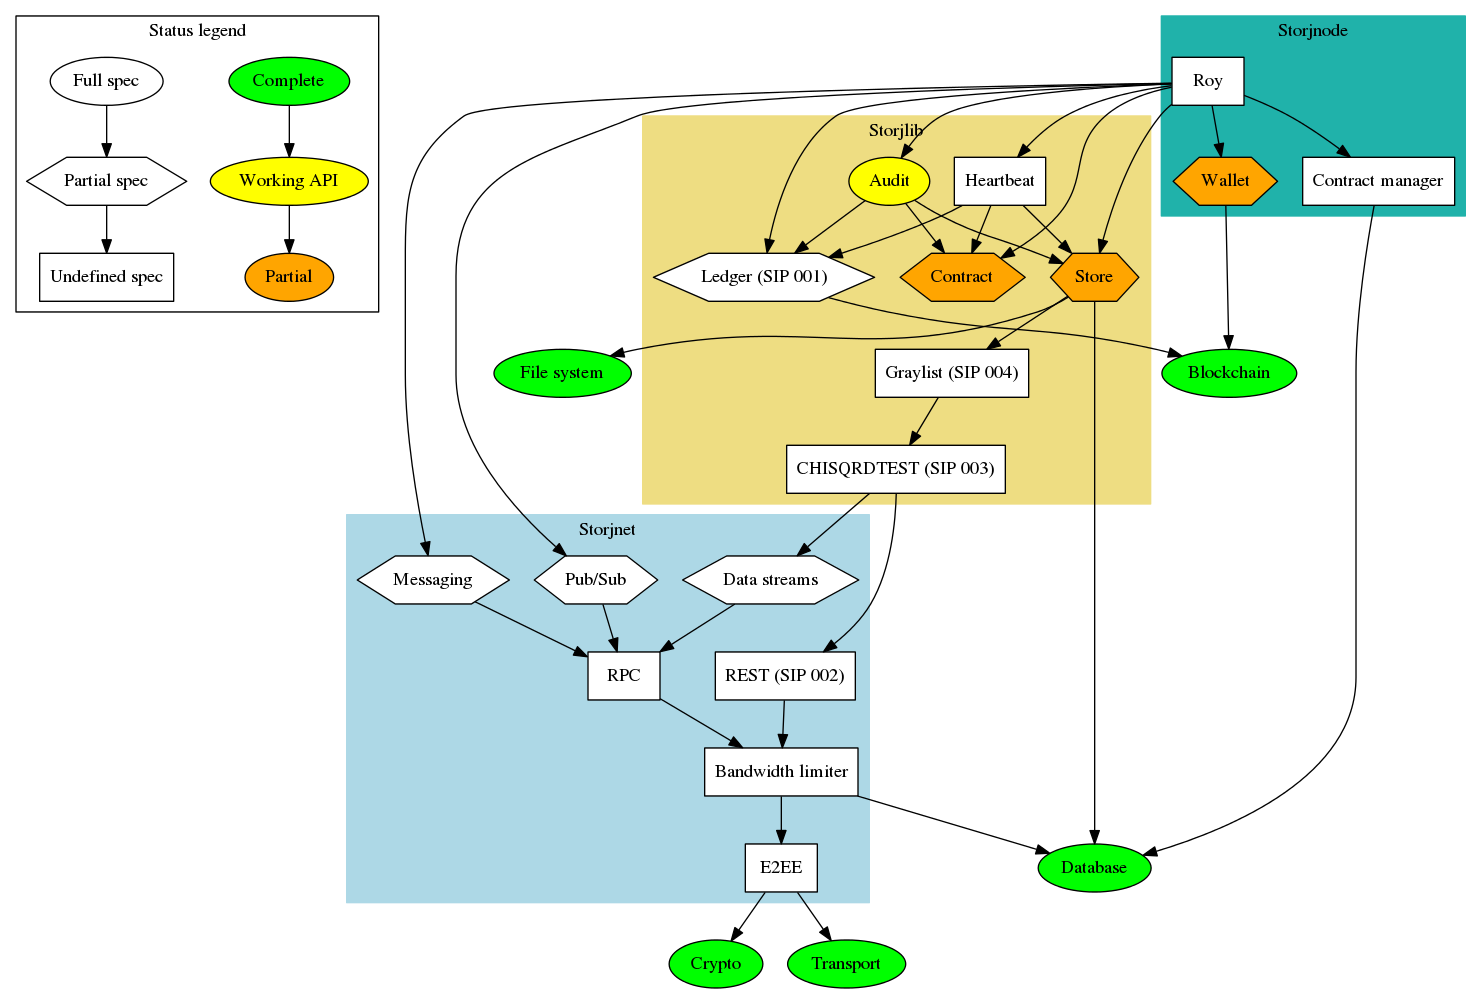
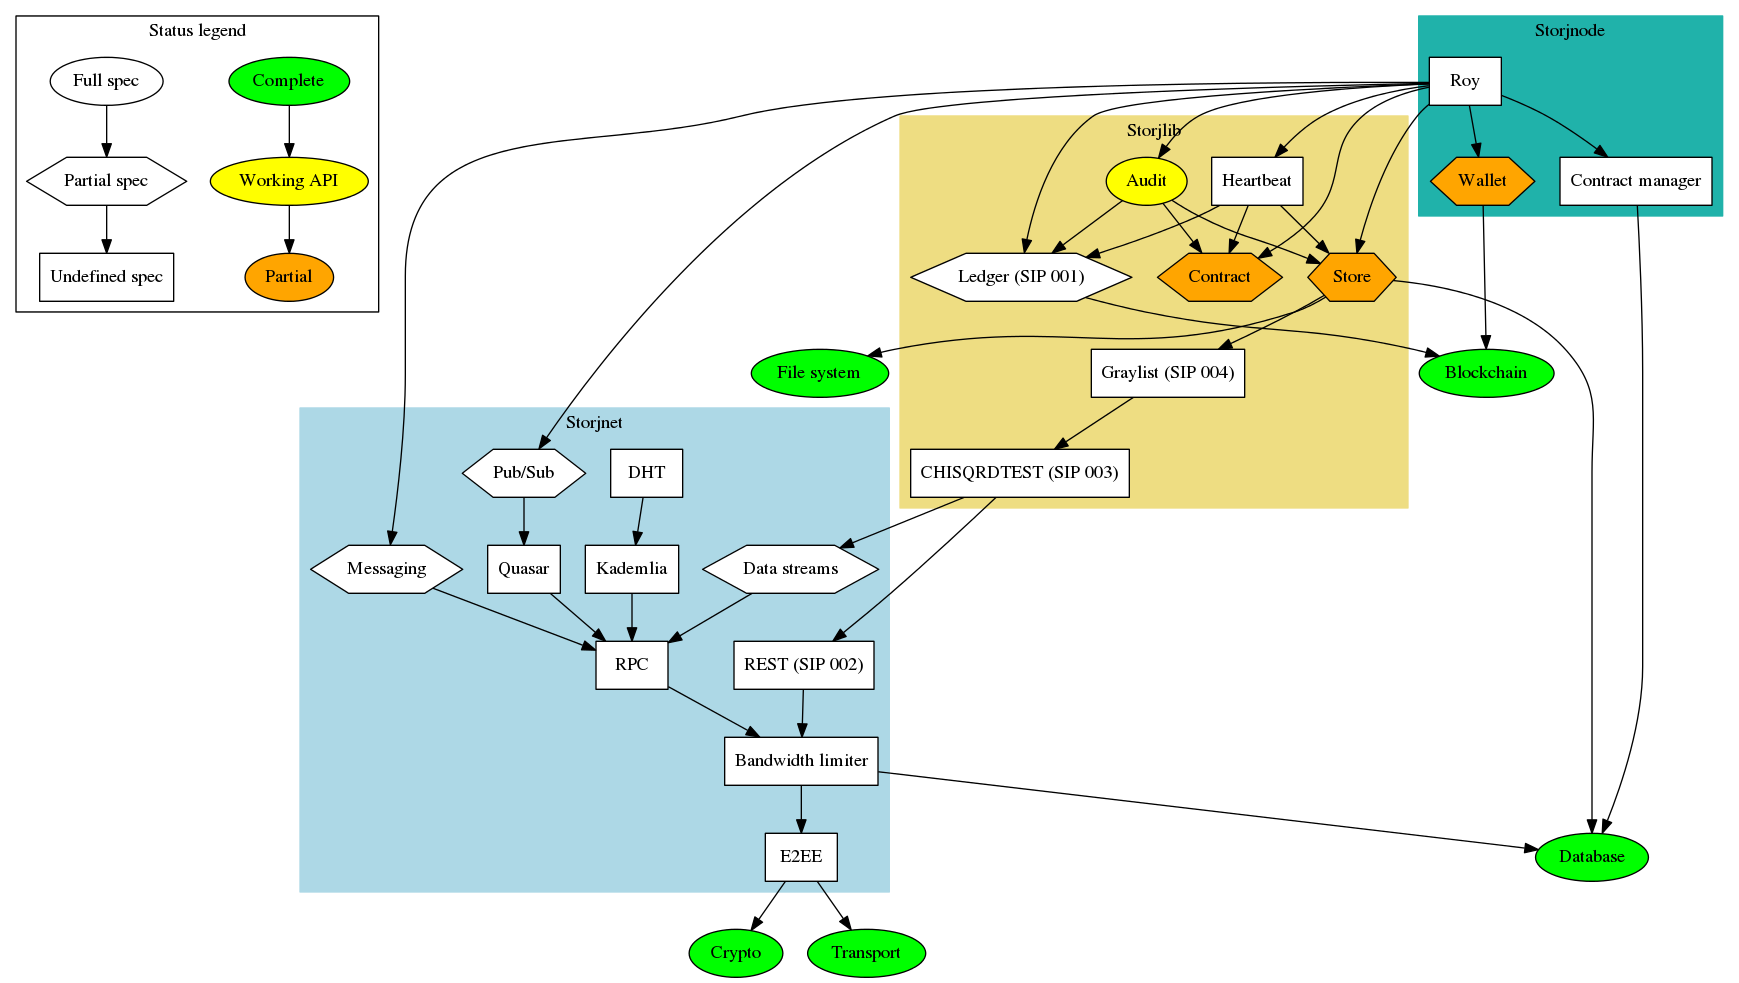
added dht calls to storjnet

diff --git a/storjnet/readme.md b/storjnet/readme.md
@@ -6,22 +6,26 @@
 
 ## User API Calls
 
-| Command               | Arguments                   | Returns             | Description                                           |
-|-----------------------|-----------------------------|---------------------|-------------------------------------------------------|
-| pubsub_publish        | topic, event                |                     | Publish an event on the network for a given topic.    |
-| pubsub_subscribe      | topic                       |                     | Subscribe to events for given topic.                  |
-| pubsub_subscriptions  |                             | [topic]             | List current subscriptions.                           |
-| pubsub_unsubscribe    | topic                       |                     | Unsubscribe from events for given topic.              |
-| pubsub_events         | topic                       | [event]             | Events received for topic since last called.          |
-|                       |                             |                     |                                                       |
-| message_send          | nodeid, ip, port, message   | bool                | Send a direct message to a known node.                |
-| message_list          |                             | {nodeid: [message]} | Messages received since last called.                  |
-|                       |                             |                     |                                                       |
-| stream_list           |                             | {streamid: bufsize} | List currently open streams and unread bytes.         |
-| stream_open           | nodeid, ip, port            | streamid            | Open a datastream with a node.                        |
-| stream_close          | streamid                    |                     | Close a datastream with a node.                       |
-| stream_read           | streamid, data              |                     | Read from a datastream with a node.                   |
-| stream_write          | streamid, len               |                     | Write to a datastream with a node.                    |
+| Command               | Arguments         | Returns             | Description                                           |
+|-----------------------|-------------------|---------------------|-------------------------------------------------------|
+| pubsub_publish        | topic, event      |                     | Publish an event on the network for a given topic.    |
+| pubsub_subscribe      | topic             |                     | Subscribe to events for given topic.                  |
+| pubsub_subscriptions  |                   | [topic]             | List current subscriptions.                           |
+| pubsub_unsubscribe    | topic             |                     | Unsubscribe from events for given topic.              |
+| pubsub_events         | topic             | [event]             | Events received for topic since last called.          |
+|                       |                   |                     |                                                       |
+| dht_put               | key, value        | bool                | Store key/value pair in DHT.                          |
+| dht_get               | key               | value               | Get value for given key in DHT.                       |
+| dht_find              | nodeid            | [ip, port]          | Get current network transport info for given nodeid.  |
+|                       |                   |                     |                                                       |
+| message_send          | nodeid, message   | bool                | Send a direct message to a known node.                |
+| message_list          |                   | {nodeid: [message]} | Messages received since last called.                  |
+|                       |                   |                     |                                                       |
+| stream_list           |                   | {streamid: bufsize} | List currently open streams and unread bytes.         |
+| stream_open           | nodeid,           | streamid            | Open a datastream with a node.                        |
+| stream_close          | streamid          |                     | Close a datastream with a node.                       |
+| stream_read           | streamid, data    |                     | Read from a datastream with a node.                   |
+| stream_write          | streamid, len     |                     | Write to a datastream with a node.                    |
 
 
 ## Basic requirements
